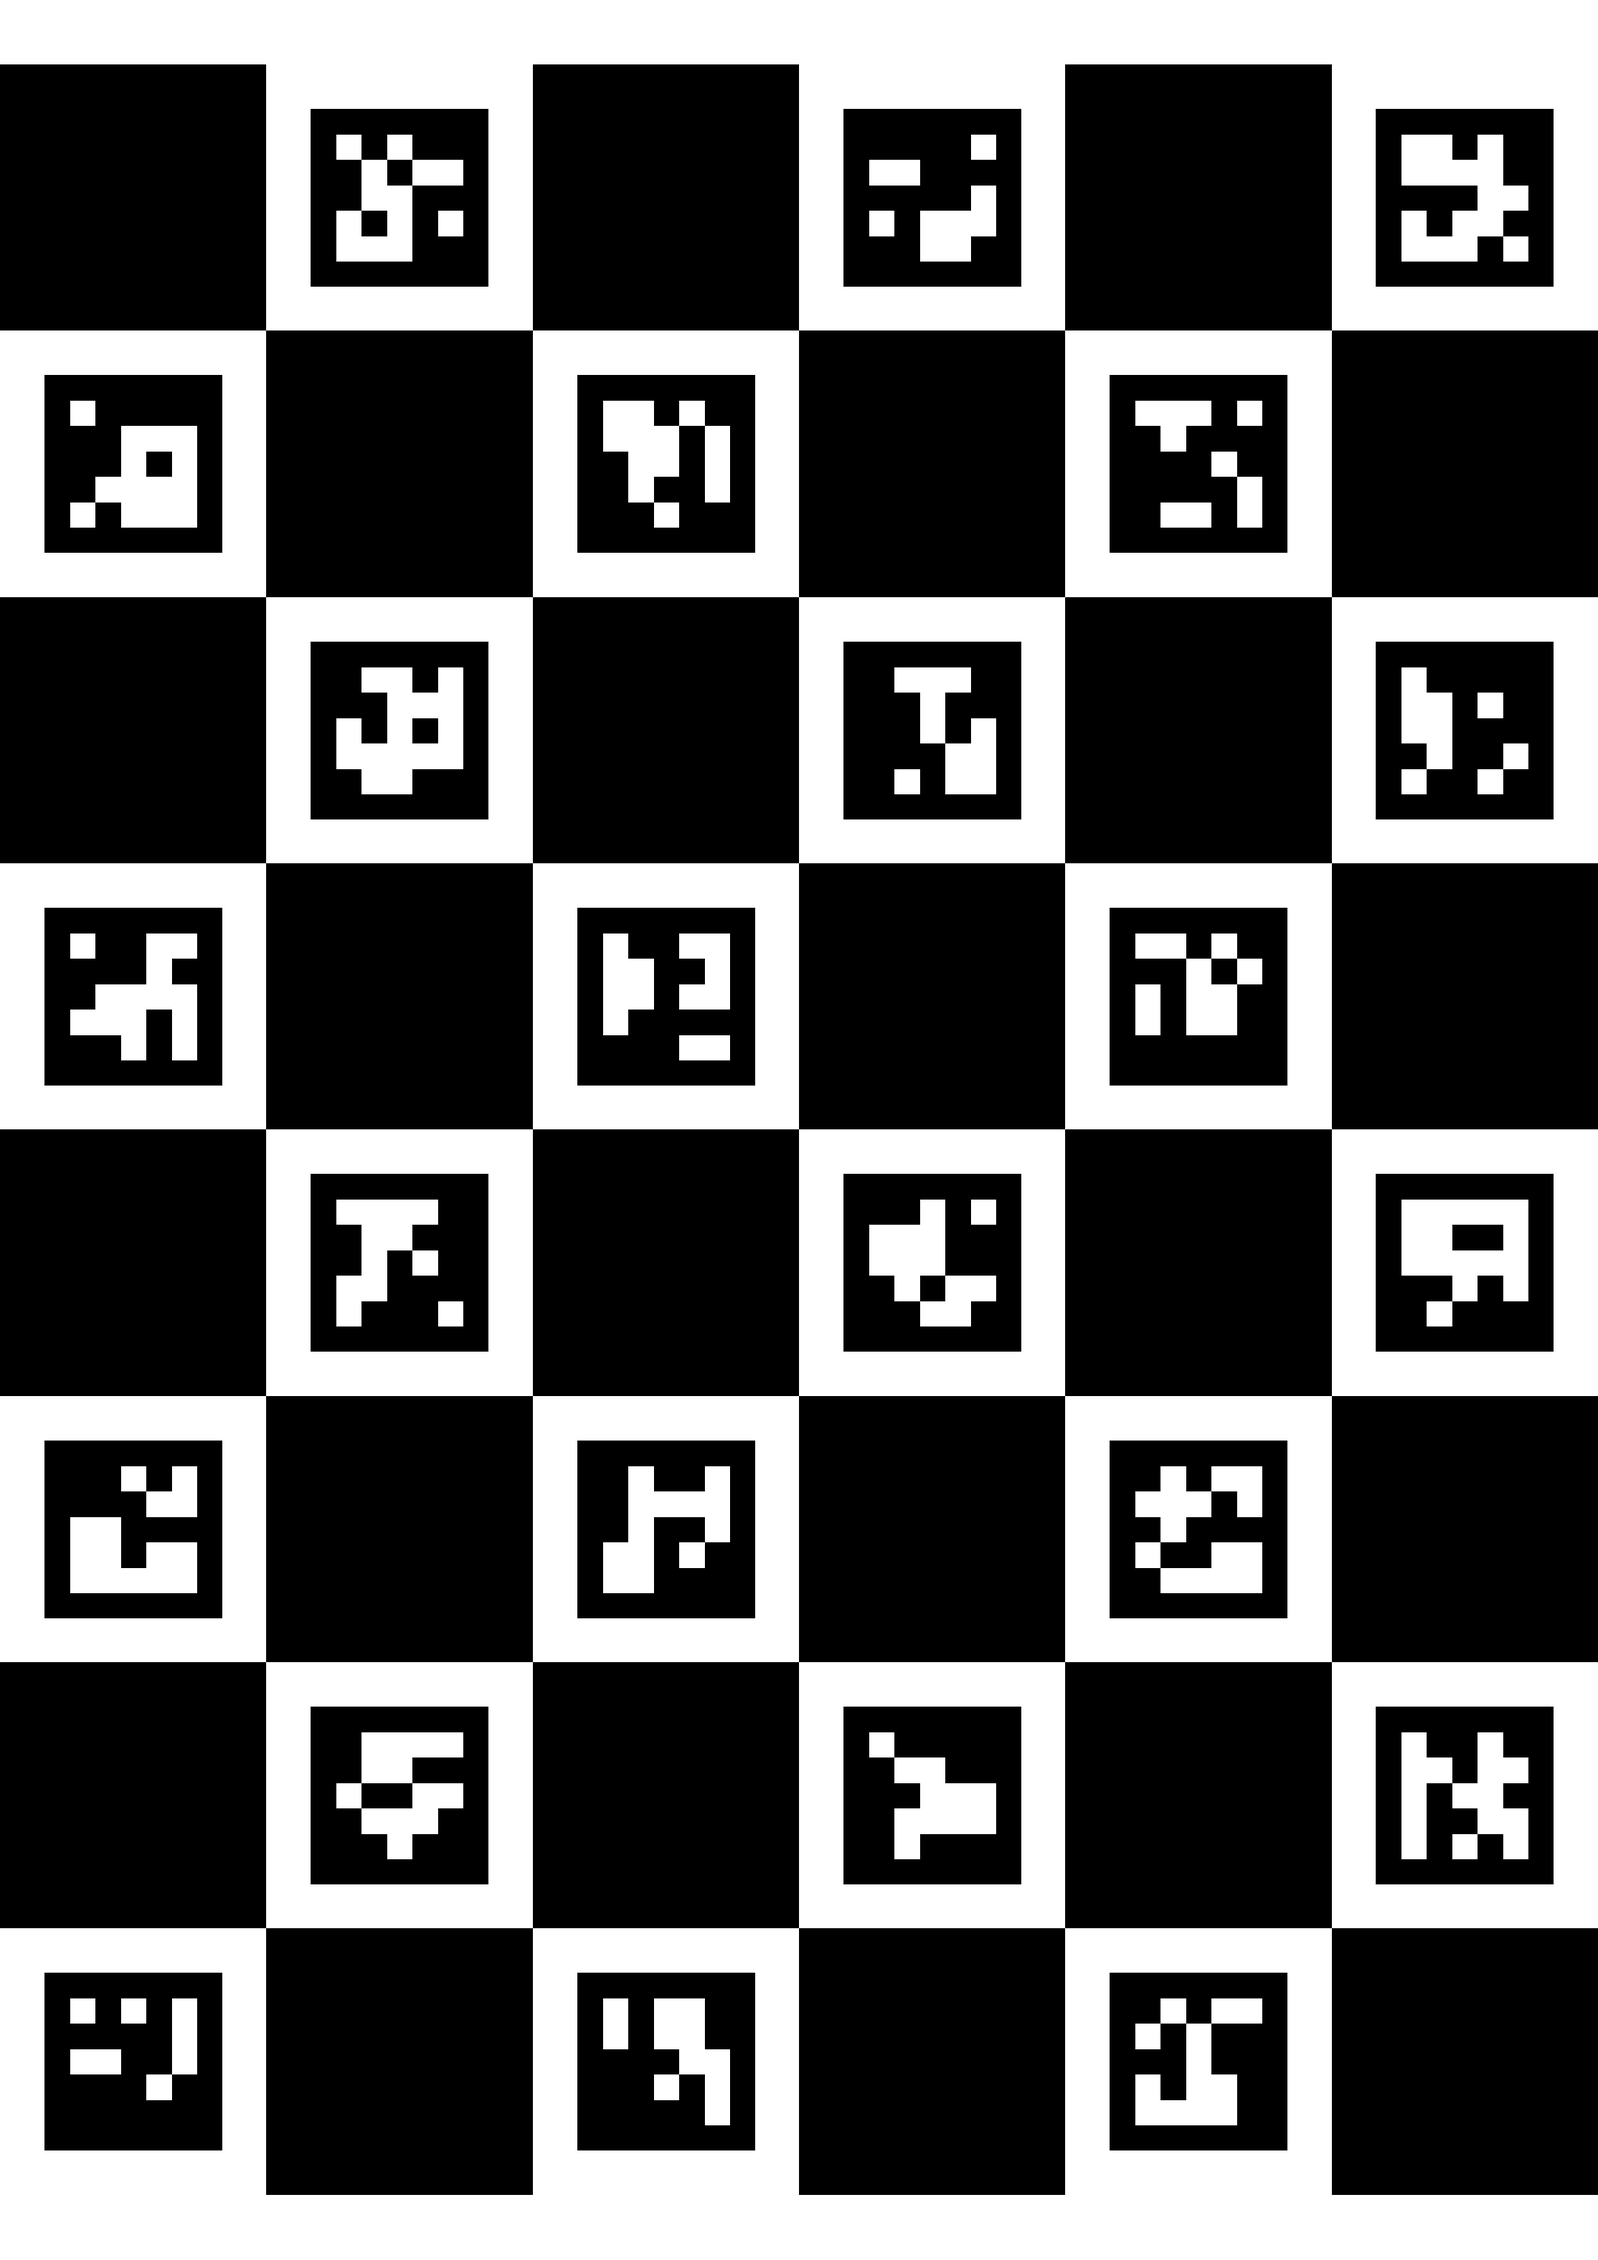
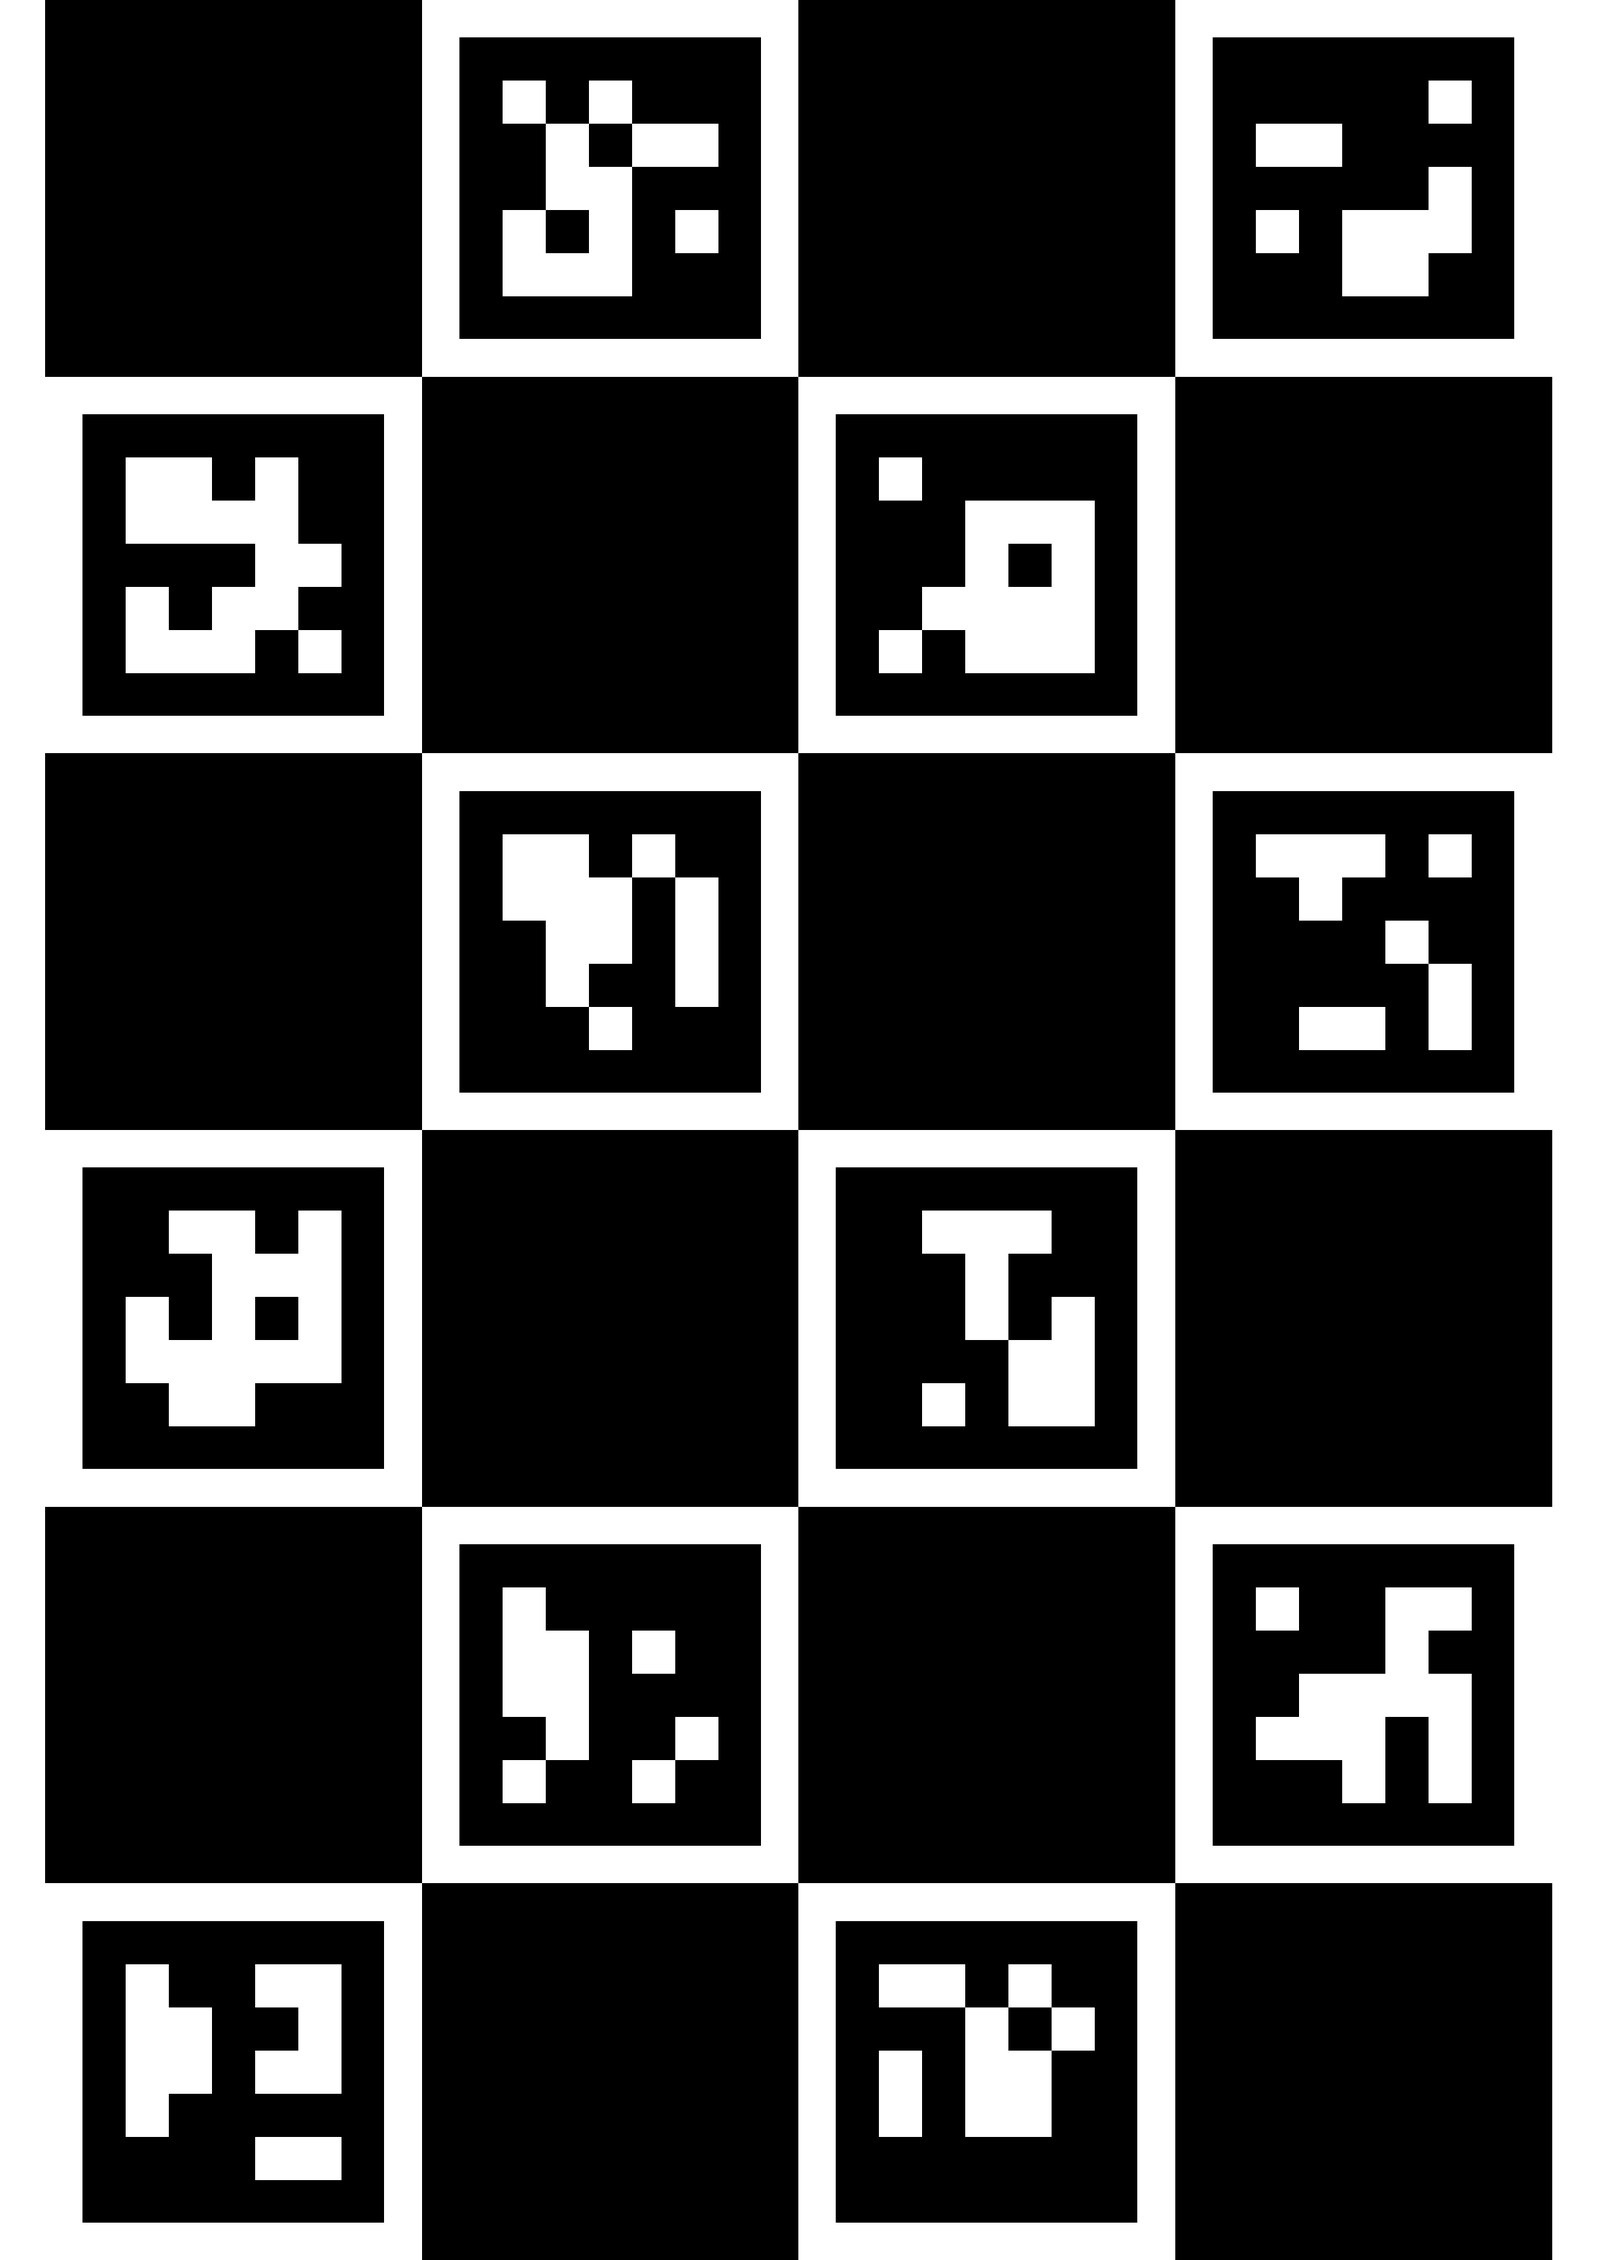
using bigger tracking target and trying to return for homing target on ground

diff --git a/robot.py b/robot.py
@@ -56,9 +56,7 @@ class Robot():
         else:
             return False    
     def _move_lateral(self, is_reversed):
-        dir = -1
-        if is_reversed:
-            dir = 1
+        dir = 1 if is_reversed else -1
         self.chassis.move_vector_smooth(dir, 0, 0) 
         time.sleep(0.75)
     
@@ -70,22 +68,22 @@ class Robot():
         self.leds.set_circle(Colors.BLUE)
         self.stepper.home(4000)
         self.chassis.enable()
-        while (self.lidar_mgr.get_angle(0) > 550): # Drive until we are at the car
-            time.sleep(0.1) # Necessary to allow lidar to update
-            self.chassis.setVector(0, 1, 0) 
-            if (self.lidar_mgr.get_angle(180) + self.lidar_mgr.get_angle(0) > CarConfig.MAX_MOVING_DIST):
-                # Switch to homing state cause something has gone wrong
-                pass
+        # while (self.lidar_mgr.get_angle(0) > 550): # Drive until we are at the car
+        #     time.sleep(0.1) # Necessary to allow lidar to update
+        #     self.chassis.setVector(0, 1, 0) 
+        self.chassis.move_vector_smooth(0, -1, 0)
+        time.sleep(1)
+        
         self._move_lateral(False)
         self.leds.set_circle(Colors.PURPLE)
-        while (self.lidar_mgr.get_angle(0) > 300): # Drive until we are close to the car
-            time.sleep(0.1) # Necessary to allow lidar to update
-            self.chassis.setVector(0, 0.5, 0) 
+        # while (self.lidar_mgr.get_angle(0) > 300): # Drive until we are close to the car
+        #     time.sleep(0.1) # Necessary to allow lidar to update
+        #     self.chassis.setVector(0, 0.5, 0) 
 
         self.chassis.move_vector_smooth(0, 0, 0)
         
     def align(self, Movement, tesla_control:TeslaControl):
-        self.cam_servo.set_angle(ArmConfig.CAMINFRONTPOS)
+        self.cam_servo.set_angle(ArmConfig.CAMTESLAPOS)
         self.stepper.moveTo(ElevatorConfig.CHARGE_PORT_HEIGHT_CM)
         tesla_control.open_or_unlatch_charge_port() # A better use of elevator delay 
         cur_led_brightness = CameraConfig.INITIAL_BRIGHTNESS
@@ -173,26 +171,26 @@ class Robot():
         self.chassis.enable()
         self.leds.set_circle(Colors.BLUE)
         
-        while (self.lidar_mgr.get_angle(0) < 500): # Drive until we far enough away from car
+        while (self.lidar_mgr.get_angle(0) < 300): # Drive until we far enough away from car
             time.sleep(0.1) # Necessary to allow lidar to update
             self.chassis.setVector(0, -1, 0) 
         self.valve_solenoid.setSpeed(0)
-        self.cam_servo.set_angle(ArmConfig.CAMBEHINDPOS)
+        self.cam_servo.set_angle(ArmConfig.CAMHOMINGPOS)
         self.stepper.home(4000)
         self._move_lateral(True)
         
     def home(self, Movement):
         self.leds.set_static(Colors.WHITE)
-        self.chassis.move_vector_smooth(0, -1, 0) # Go a bit closer to the wall so that leds can hit the target
-        time.sleep(1)
+        # self.chassis.move_vector_smooth(0, -1, 0) # Go a bit closer to the wall so that leds can hit the target
+        # time.sleep(1)
         self.chassis.stop()
         # Uses yaw - More positive is robot left side closer to wall
-        while (not Movement.move_to_tag_position(x = -0.053, y = 0.75, yaw = 0.5, use_wall_board = True).is_success(precision_multiplier = 1.5)): # Home itself
+        while (not Movement.move_to_tag_position(x = -0.192, y = 0.812, yaw = -8.8, use_wall_board = True).is_success(precision_multiplier = 1.5)): # Home itself
             pass
         
-        while (self.lidar_mgr.get_angle(180) > 100): # Drive until we are pretty close to the wall
-            time.sleep(0.1) # Necessary to allow lidar to update
-            self.chassis.setVector(0, -0.6, 0) 
+        # while (self.lidar_mgr.get_angle(180) > 100): # Drive until we are pretty close to the wall
+        #     time.sleep(0.1) # Necessary to allow lidar to update
+        #     self.chassis.setVector(0, -0.6, 0) 
         
         self.chassis.disable()
         

diff --git a/teleop.py b/teleop.py
@@ -22,7 +22,7 @@ stepper_curpos = ElevatorConfig.CHARGE_PORT_HEIGHT_CM
 stepper_increment = 1
 servo_increment = 5
 servo_curpos = ArmConfig.chargerServoStartPos
-camservo_curpos = ArmConfig.CAMBEHINDPOS
+camservo_curpos = ArmConfig.CAMHOMINGPOS
 suctmotor_tog = False
 valve_solenoid_tog = False
 
@@ -68,23 +68,23 @@ def handle_key(ch):
         robot.stepper.moveTo(stepper_curpos)
         print(stepper_curpos)
 
-    elif ch == 'o':  # CAM SERVO
+    elif ch == 'o':  # CAM SERVO UP
         camservo_curpos += servo_increment
         robot.cam_servo.set_angle(camservo_curpos)
         print(camservo_curpos)
 
-    elif ch == 'l':
+    elif ch == 'l': # CAM SERVO DOWN
         camservo_curpos -= servo_increment
         robot.cam_servo.set_angle(camservo_curpos)
         print(camservo_curpos)
-    elif ch == 'p':
-        robot.charger_servo.enable()
-        servo_curpos += servo_increment
-        robot.charger_servo.set_angle(servo_curpos)
-
-    elif ch == ';':
+    elif ch == 'p': # CHARGE SERVO INSERT
         robot.charger_servo.enable()
         servo_curpos -= servo_increment
+        robot.charger_servo.set_angle(servo_curpos)
+
+    elif ch == ';': # CHARGE SERVO REMOVE
+        robot.charger_servo.enable()
+        servo_curpos += servo_increment
         robot.charger_servo.set_angle(servo_curpos)
 
     elif ch == 'r':
@@ -103,14 +103,23 @@ def handle_key(ch):
              robot.valve_solenoid.setSpeed(0.5)
         else:
             robot.valve_solenoid.setSpeed(0)
-        # robot.valve_solenoid.setSpeed(1 if valve_solenoid_tog else 0)
-    elif ch == '1':
+            
+    elif ch == '1': # Take photo of wall board
         print(robot.charuco_tracking.get_frame(True))
         robot.charuco_tracking.show_frame()
 
-    elif ch == '2':
+    elif ch == '2': # Take photo of car tracking board
         print(robot.charuco_tracking.get_frame(False))
         robot.charuco_tracking.show_frame()
+        
+    elif ch == '3': # Increase camera brightness
+        print(robot.charuco_tracking.get_frame(False))
+        robot.charuco_tracking.show_frame()
+        
+    elif ch == '4': # Decrease camera brightness
+        print(robot.charuco_tracking.get_frame(False))
+        robot.charuco_tracking.show_frame()
+
 
     elif ch == 'x':
         return False  # signal exit

diff --git a/main.py b/main.py
@@ -9,7 +9,11 @@ from algorithms.robot_states import *
 from api.tesla_control import TeslaControl
 from api.telegram_control import TelegramControl, MessagingReceiverWrapper
 
-logging.basicConfig(level=logging.DEBUG)
+logging.basicConfig(
+    level=logging.DEBUG,
+    format="%(asctime)s %(levelname)s [%(name)s] %(message)s",
+    datefmt="%Y-%m-%d %H:%M:%S"
+)
 logger = logging.getLogger("Robot")
 logging.getLogger("urllib3").setLevel(logging.WARNING) # Surpress noisy loggers
 logging.getLogger("requests").setLevel(logging.WARNING) # Surpress noisy loggers
@@ -32,12 +36,14 @@ car_detected_start_time = time.time()
 car_gone_start_time = time.time()
 
 def is_car_in_distance(vals: DistanceThreshold) -> bool:
-    return (abs(robot.lidar_mgr.get_angle(0) - vals.target_distance) < vals.threshold)
+    return (abs(robot.lidar_mgr.get_angle(300) - vals.target_distance) < vals.threshold)
 
-if (is_car_in_distance(CarConfig.CAR_PLUGGED_DIST)):
-    robot.state = RobotStates.IDLE_CHARGING
-    logger.info("SET TO IDLE_CHARGING!")
-    messaging.send_message("SET TO IDLE_CHARGING!")
+# if (is_car_in_distance(CarConfig.CAR_PLUGGED_DIST)):
+#     robot.state = RobotStates.IDLE_CHARGING
+#     logger.info("SET TO IDLE_CHARGING!")
+#     messaging.send_message("SET TO IDLE_CHARGING!")
+    
+robot.home(Movement)
 
 try:
     while not stop_event.is_set(): 
@@ -117,7 +123,7 @@ try:
 
             robot.home(Movement)
         
-            robot.cam_servo.set_angle(ArmConfig.CAMINFRONTPOS)
+            robot.cam_servo.set_angle(ArmConfig.CAMTESLAPOS)
             robot.leds.set_static(Colors.GREEN)
             time.sleep(1)
             robot.leds.set_static(Colors.BLACK)
@@ -126,9 +132,11 @@ try:
             messaging.send_message("Successfully Homed")
 
 except KeyboardInterrupt:
+    robot.leds.set_static(Colors.GREEN) # Indicate crashing occurred
     robot.lidar_mgr.stop()
 
 except Exception as e:
     import traceback
     traceback.print_exc()
     robot.lidar_mgr.stop()
+    robot.leds.set_static(Colors.RED) # Indicate crashing occurred

diff --git a/sensors/vision.py b/sensors/vision.py
@@ -14,6 +14,11 @@ class CharucoTracking():
         self.cap.set(cv2.CAP_PROP_FOURCC, cv2.VideoWriter_fourcc(*'YUYV'))
         self.cap.set(cv2.CAP_PROP_FRAME_WIDTH, 1920)
         self.cap.set(cv2.CAP_PROP_FRAME_HEIGHT, 1080)
+        self.cap.set(cv2.CAP_PROP_BUFFERSIZE, 1)
+        
+        
+        if not self.cap.isOpened():
+            raise RuntimeError("Camera initialization failed")
 
         # Check the actual result
         w = self.cap.get(cv2.CAP_PROP_FRAME_WIDTH)
@@ -24,9 +29,9 @@ class CharucoTracking():
         
         self.aruco_dict = cv2.aruco.getPredefinedDictionary(cv2.aruco.DICT_5X5_1000)
         self.board_wall = cv2.aruco.CharucoBoard(
-            (6, 8),        # squaresX, squaresY
-            0.04,          # square length (meters)
-            0.025,         # marker length
+            (4, 6),        # squaresX, squaresY
+            0.05,          # square length (meters)
+            0.04,         # marker length
             self.aruco_dict
         )
         
@@ -207,7 +212,7 @@ class CharucoTracking():
                 x_coords = all_points[:, 0]
                 pixel_width = np.max(x_coords) - np.min(x_coords)
                 if use_wall_board:
-                    BOARD_WIDTH_METERS = 6 * 0.04
+                    BOARD_WIDTH_METERS = 6 * 0.05
                 else:
                     BOARD_WIDTH_METERS = 6 * 0.014
                 distance = (BOARD_WIDTH_METERS * CameraConfig.K[0,0]) / pixel_width

diff --git a/algorithms/movement.py b/algorithms/movement.py
@@ -146,7 +146,8 @@ class FusedMovement:
         
     def move_to_tag_position(self, x, y, yaw, use_wall_board : bool):
         charuco_res = self.myTracker.get_frame(use_wall_board)
-        dir_mult = -1 if use_wall_board else 1
+        dir_mult = 1
+        dir_mult = -1 if use_wall_board else 1 
         
         loss_ratio = sum(self.am_lost) / len(self.am_lost)
         
@@ -170,9 +171,9 @@ class FusedMovement:
             self.chassis.setVector(x_pwr, y_pwr, 0)
         elif (tracking_type == TrackingTypes.BRIEF_LOST):
             self.am_lost.append(True)
-            self.chassis.setVector(self.PositionControllerX.do_translate(None) * 1 * dir_mult, 
-                                self.PositionControllerY.do_translate(None) * -1 * dir_mult, 
-                                self.RotationControllerYaw.do_translate(None) * 1 * dir_mult)
+            # self.chassis.setVector(self.PositionControllerX.do_translate(None) * 1 * dir_mult, 
+            #                     self.PositionControllerY.do_translate(None) * -1 * dir_mult, 
+            #                     self.RotationControllerYaw.do_translate(None) * 1 * dir_mult)
         elif (tracking_type == TrackingTypes.LOST):
             self.chassis.stop()
         return self

diff --git a/settings/config.py b/settings/config.py
@@ -28,17 +28,17 @@ class ChassisConfig:
 
 class ElevatorConfig:
     STEPS_PER_CM = 418.75
-    CHARGE_PORT_HEIGHT_CM = 23.5
+    CHARGE_PORT_HEIGHT_CM = 22
 
 class ArmConfig:
-    sucMotorThresholdCurrent = 2320
+    sucMotorThresholdCurrent = 2315
     servoThresholdcurrent = 2800
     
     chargerServoStartPos = 157
-    chargerServoEndPos = 39
+    chargerServoEndPos = 42
     
-    CAMBEHINDPOS = 45
-    CAMINFRONTPOS = 170
+    CAMHOMINGPOS = 170
+    CAMTESLAPOS = 70
     
 class CameraConfig:
     ### 99$ Camera 720p 60fps
@@ -61,7 +61,7 @@ class CameraConfig:
     
     dist = np.array([-0.01196480038446067, -0.04646810566273238, -0.000800085816789049, -0.000435858940564193, 0.01317977322544761], dtype=np.float32)  
     INITIAL_BRIGHTNESS = 0
-    SETPOINT_BRIGHTNESS = 35
+    SETPOINT_BRIGHTNESS = 20 # (Going higher has issues with being too bright and causing too much glare)
 
 @dataclass
 class DistanceThreshold:

diff --git a/testing/cameracalibration/targets/charuco_generator.py b/testing/cameracalibration/targets/charuco_generator.py
@@ -1,9 +1,9 @@
 import cv2
-path = "cameracalibration/targets/"
+path = "testing/cameracalibration/targets/"
 def homing_charuco():
     aruco_dict = cv2.aruco.getPredefinedDictionary(cv2.aruco.DICT_5X5_1000)
 
-    board = cv2.aruco.CharucoBoard((6, 8), 30, 20, aruco_dict)
+    board = cv2.aruco.CharucoBoard((4, 6), 0.05, 0.04, aruco_dict)
 
     img = board.generateImage((2480, 3508))  # A4 @ 300 DPI
 
